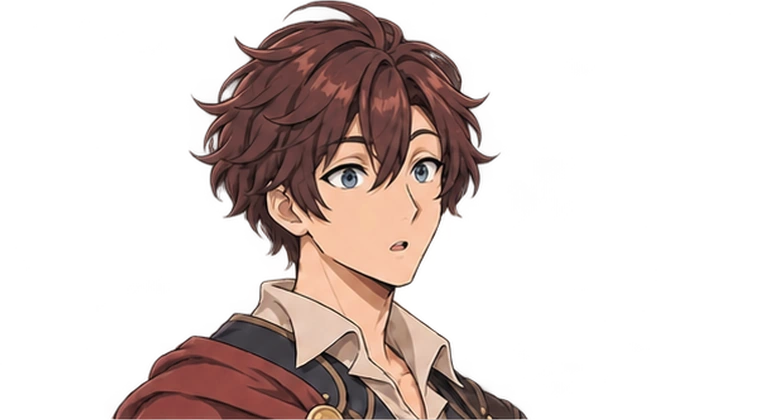
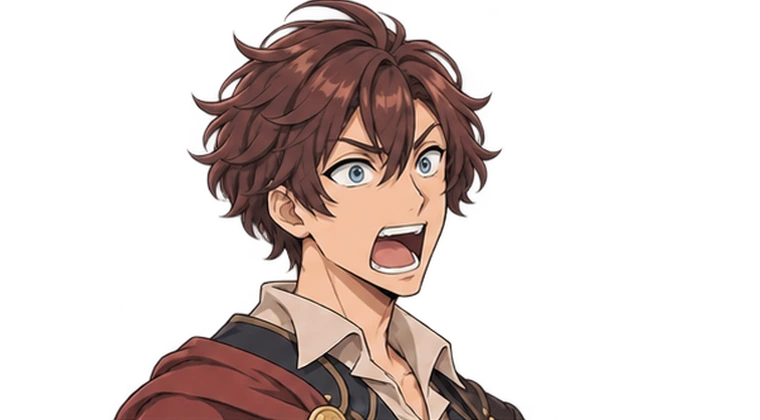
Give each character distinct facial acting and contextual reactions

Changed region(s): [[0.1211, 0.0, 0.6961, 1.0], [0.3632, 0.2476, 0.3934, 0.2786]]

diff --git a/tomori/game.js b/tomori/game.js
@@ -23,9 +23,9 @@ const assetList=['forest','yard','shop','tavern',...D.IDS.flatMap(id=>[id+'-norm
 async function load(firstLine){
 const firstExpression=firstLine?TomoriPortraits.expressionAt(firstLine,prefs.speed==='instant'||prefs.reduced?Infinity:0):null;
 if(hydrated){if(firstLine)await portraitView.preload(firstLine.who,firstExpression);return;}
-const names=[...assetList],meta=firstLine?TomoriExpressions[firstLine.who]:null;
-if(meta?.variants.includes(firstExpression))names.push('expressions/'+firstLine.who+'-mask','expressions/'+firstLine.who+'-'+firstExpression);
-$('loading').hidden=false;let n=0;await Promise.all(names.map(name=>new Promise(resolve=>{const im=new Image();im.onload=im.onerror=()=>{$('load-progress').value=++n/names.length;resolve();};im.src='assets/'+name+'.webp';})));hydrated=true;$('loading').hidden=true;}
+const sources=assetList.map(name=>'assets/'+name+'.webp'),meta=firstLine?TomoriExpressions[firstLine.who]:null;
+if(meta?.variants.includes(firstExpression))sources.push('assets/expressions/'+firstLine.who+'-mask.webp',portraitView.texture(firstLine.who,firstExpression));
+$('loading').hidden=false;let n=0;await Promise.all(sources.map(src=>new Promise(resolve=>{const im=new Image();im.onload=im.onerror=()=>{$('load-progress').value=++n/sources.length;resolve();};im.src=src;})));hydrated=true;$('loading').hidden=true;}
 async function begin(fresh=false){if(busy)return;busy=true;closeAll();const nextState=fresh?C.fresh():C.validate(saved)||C.fresh(),cursor=nextState.story;await load(cursor?D.STORIES[cursor.id]?.[cursor.index]:null);generation++;state=nextState;active=null;target=null;dying.clear();busy=false;save();render();if(!fresh&&recovered){toast('ひとつ前の記録から旅を再開しました。');recovered=false;}queueFlow();}
 function render(){if(!state)return;const view=state.view==='camp'?'hub':state.view;show(view);if(view==='hub')renderHub();if(view==='story')renderStory();if(view==='battle')renderBattle();if(view==='result')renderResult();if(view==='ending')renderEnding();}
 function renderHub(){background(state.next===1?'shop':state.next===2?'forest':'yard');$('gold').textContent=state.gold;$('ore').textContent=state.ore;const node=D.NODES[state.completed?5:state.next]||D.NODES[5];$('quest-label').textContent=state.completed?'聖剣を取り戻した · 第一章クリア':'買い戻しの進行 · '+state.next+' / 5';$('quest-title').textContent=state.completed?'ゴーレムの試運転':node.name;$('quest-description').textContent=state.completed?'ヒューゴの機械で腕試し。別の編成や装備の手入れも試せます。':node.description;$('depart').innerHTML=(state.completed?'ゴーレムと腕試し':node.type==='event'?'買い戻しの準備をする':'次の道へ進む')+' <span>→</span>';
@@ -87,7 +87,7 @@ function openRoute(){$('route-list').innerHTML=D.NODES.slice(1).map(n=>{const do
 const storyNames=D.STORY_TITLES;
 function journalIndex(){$('journal-list').innerHTML='<p class="fine">買い戻しの準備：'+(state.route==='help'?'薬草弁当 / 全員の最大HP+6':state.route==='trace'?'整備図を購入 / ゴーレムの盾−1':'まだ、これから')+'</p>'+state.seen.map(id=>`<button class="journal-button" data-read="${id}">${storyNames[id]}</button>`).join('')+(!state.seen.length?'<p class="fine">読み終えた会話が、ここに残ります。</p>':'');$('journal-list').querySelectorAll('[data-read]').forEach(b=>b.onclick=()=>{$('journal-list').innerHTML='<button class="journal-button" id="journal-back">← 会話の一覧へ</button><button class="primary wide" id="replay-story">会話画面で見返す</button>'+D.STORIES[b.dataset.read].map(l=>`<div class="journal-story"><strong>${(D.HEROES[l.who]||D.NPCS[l.who]).name}</strong><p>${esc(l.text)}</p></div>`).join('');$('journal-back').onclick=journalIndex;$('replay-story').onclick=()=>startReplay(b.dataset.read);$('journal-dialog').scrollTop=0;});}
 function battleMenu(history=false){const b=state?.battle;if(!b)return;$('battle-heading').textContent=history?'戦闘の記録':'戦いの手引き';$('battle-dialog-body').innerHTML=(history?b.log:[...b.enemies.filter(e=>e.hp>0).map(e=>D.MONSTERS[e.kind].name+'：盾'+e.shield+' / '+enemyIntent(e)),b.nodeId===5?'ゴーレムは荷を固定し直します。崩した隙に大技をまとめよう。':'敵を崩すと、その敵の次の行動を中断できます。']).map(l=>`<p class="battle-record">${esc(l)}</p>`).join('');open('battle-dialog');}
-$('new-game').onclick=()=>saved?open('confirm-new'):begin(true);$('confirm-start').onclick=()=>begin(true);$('continue').onclick=()=>begin(false);$('title-guide').onclick=()=>open('guide-dialog');$('title-settings').onclick=()=>open('settings-dialog');$('hub-settings').onclick=()=>open('settings-dialog');$('settings-title').onclick=()=>{save();showTitle();};$('depart').onclick=()=>depart(state.completed?5:state.next);$('rest').onclick=()=>{const r=C.rest(state);if(r.ok){save();renderHub();toast(r.message);}};$('route').onclick=openRoute;$('party-open').onclick=openParty;$('party-confirm').onclick=()=>{const r=C.formation(state,draft);if(r.ok){save();close('party-dialog');renderHub();toast('この3人で、旅に出よう。');}};$('gear-open').onclick=openGear;$('bag-open').onclick=()=>{renderBag();open('bag-dialog');};$('buy').onclick=()=>{if(C.buy(state).ok){save();renderBag();renderHub();toast('回復薬を道具袋に入れた。');}};$('journal-open').onclick=()=>{journalIndex();open('journal-dialog');};$('story-next').onclick=()=>nextStory();$('story-line').onclick=()=>{if(typing){clearInterval(typing);typing=null;$('story-line').textContent=fullLine;applyStoryExpression(Infinity);}};$('story-skip').onclick=()=>nextStory(true);$('battle-potion').onclick=()=>action('potion');$('battle-menu').onclick=()=>battleMenu();$('battle-history').onclick=()=>battleMenu(true);$('battle-guide').onclick=()=>{close('battle-dialog');open('guide-dialog');};$('retreat').onclick=()=>{generation++;busy=false;dying.clear();closeAll();if(!state.battle)return;state.battle.phase='loss';C.complete(state);save();render();};$('result-next').onclick=()=>{C.afterResult(state);save();render();};$('result-retry').onclick=()=>{const id=state.lastBattle.nodeId;state.view='camp';depart(id);};$('ending-camp').onclick=()=>{state.view='camp';save();render();};$('ending-title').onclick=()=>{save();showTitle();};$('share').onclick=async()=>{const text='昨日300Gで売った剣が、今日1億Gになっていた。\n「勇者の剣、売りました。」第1章クリア。\nhttps://sakamoto241.github.io/game/tomori/?v=4';try{if(navigator.share)await navigator.share({title:D.TITLE,text});else{await navigator.clipboard.writeText(text);toast('買い戻しの記録とURLをコピーしました。');}}catch(e){if(e.name!=='AbortError'){toast('共有するURL：https://sakamoto241.github.io/game/tomori/?v=4');}}};$('reduced').onchange=e=>{prefs.reduced=e.target.checked;savePrefs();};$('text-speed').onchange=e=>{prefs.speed=e.target.value;savePrefs();};document.querySelectorAll('[data-close]').forEach(b=>b.onclick=()=>close(b.dataset.close));document.querySelectorAll('dialog').forEach(d=>{d.addEventListener('close',queueFlow);d.addEventListener('click',e=>{if(e.target===d){const r=d.getBoundingClientRect();if(e.clientX<r.left||e.clientX>r.right||e.clientY<r.top||e.clientY>r.bottom)d.close();}});});
+$('new-game').onclick=()=>saved?open('confirm-new'):begin(true);$('confirm-start').onclick=()=>begin(true);$('continue').onclick=()=>begin(false);$('title-guide').onclick=()=>open('guide-dialog');$('title-settings').onclick=()=>open('settings-dialog');$('hub-settings').onclick=()=>open('settings-dialog');$('settings-title').onclick=()=>{save();showTitle();};$('depart').onclick=()=>depart(state.completed?5:state.next);$('rest').onclick=()=>{const r=C.rest(state);if(r.ok){save();renderHub();toast(r.message);}};$('route').onclick=openRoute;$('party-open').onclick=openParty;$('party-confirm').onclick=()=>{const r=C.formation(state,draft);if(r.ok){save();close('party-dialog');renderHub();toast('この3人で、旅に出よう。');}};$('gear-open').onclick=openGear;$('bag-open').onclick=()=>{renderBag();open('bag-dialog');};$('buy').onclick=()=>{if(C.buy(state).ok){save();renderBag();renderHub();toast('回復薬を道具袋に入れた。');}};$('journal-open').onclick=()=>{journalIndex();open('journal-dialog');};$('story-next').onclick=()=>nextStory();$('story-line').onclick=()=>{if(typing){clearInterval(typing);typing=null;$('story-line').textContent=fullLine;applyStoryExpression(Infinity);}};$('story-skip').onclick=()=>nextStory(true);$('battle-potion').onclick=()=>action('potion');$('battle-menu').onclick=()=>battleMenu();$('battle-history').onclick=()=>battleMenu(true);$('battle-guide').onclick=()=>{close('battle-dialog');open('guide-dialog');};$('retreat').onclick=()=>{generation++;busy=false;dying.clear();closeAll();if(!state.battle)return;state.battle.phase='loss';C.complete(state);save();render();};$('result-next').onclick=()=>{C.afterResult(state);save();render();};$('result-retry').onclick=()=>{const id=state.lastBattle.nodeId;state.view='camp';depart(id);};$('ending-camp').onclick=()=>{state.view='camp';save();render();};$('ending-title').onclick=()=>{save();showTitle();};$('share').onclick=async()=>{const text='昨日300Gで売った剣が、今日1億Gになっていた。\n「勇者の剣、売りました。」第1章クリア。\nhttps://sakamoto241.github.io/game/tomori/?v=5';try{if(navigator.share)await navigator.share({title:D.TITLE,text});else{await navigator.clipboard.writeText(text);toast('買い戻しの記録とURLをコピーしました。');}}catch(e){if(e.name!=='AbortError'){toast('共有するURL：https://sakamoto241.github.io/game/tomori/?v=5');}}};$('reduced').onchange=e=>{prefs.reduced=e.target.checked;savePrefs();};$('text-speed').onchange=e=>{prefs.speed=e.target.value;savePrefs();};document.querySelectorAll('[data-close]').forEach(b=>b.onclick=()=>close(b.dataset.close));document.querySelectorAll('dialog').forEach(d=>{d.addEventListener('close',queueFlow);d.addEventListener('click',e=>{if(e.target===d){const r=d.getBoundingClientRect();if(e.clientX<r.left||e.clientX>r.right||e.clientY<r.top||e.clientY>r.bottom)d.close();}});});
 document.addEventListener('visibilitychange',()=>{if(document.hidden)save();else queueFlow();});window.addEventListener('pagehide',save);window.addEventListener('resize',resizeCanvas);document.addEventListener('contextmenu',e=>{if(e.target.closest('#app'))e.preventDefault();});document.addEventListener('error',e=>{if(e.target instanceof HTMLImageElement&&!e.target.dataset.failed){e.target.dataset.failed='1';e.target.src='assets/fallback.svg';}},true);
 applyPrefs();showTitle();
 })();

diff --git a/tomori/index.html b/tomori/index.html
@@ -1,4 +1,4 @@
-<!doctype html><html lang="ja"><head><meta charset="utf-8"><meta name="viewport" content="width=device-width,initial-scale=1,viewport-fit=cover"><meta name="theme-color" content="#223b34"><title>勇者の剣、売りました。</title><meta name="description" content="昨日300Gで売った剣が、今日1億Gになっていた。四人で夕食に使った代金を取り返す、買い戻し冒険RPG。"><meta property="og:title" content="勇者の剣、売りました。"><meta property="og:description" content="聖剣を売ったお金は、四人の胃袋へ。買い手を追いかけるドタバタRPG。通常は等身の高い立ち絵、戦闘はSDキャラ。"><meta property="og:image" content="https://sakamoto241.github.io/game/tomori/og.jpg?v=4"><meta property="og:url" content="https://sakamoto241.github.io/game/tomori/"><meta property="og:locale" content="ja_JP"><meta name="twitter:image" content="https://sakamoto241.github.io/game/tomori/og.jpg?v=4"><meta name="twitter:card" content="summary_large_image"><link rel="stylesheet" href="styles.css?v=4"><link rel="preload" as="image" href="assets/shop.webp"></head><body>
+<!doctype html><html lang="ja"><head><meta charset="utf-8"><meta name="viewport" content="width=device-width,initial-scale=1,viewport-fit=cover"><meta name="theme-color" content="#223b34"><title>勇者の剣、売りました。</title><meta name="description" content="昨日300Gで売った剣が、今日1億Gになっていた。四人で夕食に使った代金を取り返す、買い戻し冒険RPG。"><meta property="og:title" content="勇者の剣、売りました。"><meta property="og:description" content="聖剣を売ったお金は、四人の胃袋へ。買い手を追いかけるドタバタRPG。通常は等身の高い立ち絵、戦闘はSDキャラ。"><meta property="og:image" content="https://sakamoto241.github.io/game/tomori/og.jpg?v=5"><meta property="og:url" content="https://sakamoto241.github.io/game/tomori/"><meta property="og:locale" content="ja_JP"><meta name="twitter:image" content="https://sakamoto241.github.io/game/tomori/og.jpg?v=5"><meta name="twitter:card" content="summary_large_image"><link rel="stylesheet" href="styles.css?v=5"><link rel="preload" as="image" href="assets/shop.webp"></head><body>
 <svg class="defs" aria-hidden="true"><defs><symbol id="coin-i" viewBox="0 0 24 24"><circle cx="12" cy="12" r="9"/><path d="m12 5 4 7-4 7-4-7z"/></symbol><symbol id="ore-i" viewBox="0 0 24 24"><path d="m6 3 12 0 5 9-5 9H6l-5-9z"/><circle cx="12" cy="12" r="4"/></symbol><symbol id="party-i" viewBox="0 0 24 24"><circle cx="12" cy="7" r="4"/><path d="M4 22v-4c0-8 16-8 16 0v4M3 4a3 3 0 0 0 0 6m18-6a3 3 0 0 1 0 6"/></symbol><symbol id="sword-i" viewBox="0 0 24 24"><path d="m5 20 7-8M9 8l7 7m-6-6 9-7 3 3-8 9M2 18l4 4"/></symbol><symbol id="bag-i" viewBox="0 0 24 24"><path d="M5 8h14l2 13H3zM8 8V5a4 4 0 0 1 8 0v3M9 12h6"/></symbol><symbol id="book-i" viewBox="0 0 24 24"><path d="M12 5S6 2 2 5v15c5-3 10 1 10 1s5-4 10-1V5c-5-3-10 0-10 0zM12 5v16"/></symbol><symbol id="shield-i" viewBox="0 0 24 24"><path d="m12 2 9 4v7c0 6-9 9-9 9S3 19 3 13V6zM12 5v14"/></symbol><symbol id="rest-i" viewBox="0 0 24 24"><path d="M4 8h12v6c0 7-12 7-12 0zM16 9h2a3 3 0 0 1 0 6h-2M3 22h15M8 2v3m5-3v3"/></symbol></defs></svg>
 <main id="app"><div id="scenery"></div><div class="scene-wash"></div><section id="title"><div class="title-copy"><p class="eyebrow">昨日300G、今日1億G。</p><h1>勇者の剣、<br><span>売りました。</span></h1><p class="tagline">その代金は、<br>四人の夕食になりました。</p></div><img class="title-character" src="assets/rine-normal-body.webp" alt="古道具屋の鑑定士リネ" draggable="false"><div class="title-menu"><button id="new-game" class="primary">はじめる <span>→</span></button><button id="continue" class="secondary" hidden>つづきから <span>→</span></button><div class="title-links"><button id="title-guide">遊び方</button><button id="title-settings">設定</button></div><p class="fine">第一章「食べた300G」 / 3人編成のコマンドRPG</p><p id="save-note" hidden></p></div></section>
 <section id="hub" hidden><header class="hub-header"><div><p class="eyebrow">第一章 · 食べた300G</p><h1>買い戻し作戦</h1></div><div class="resources"><span><svg><use href="#coin-i"/></svg><b id="gold">40</b></span><span><svg><use href="#ore-i"/></svg><b id="ore">1</b></span><button id="hub-settings" class="icon" aria-label="設定">≡</button></div></header><img id="hub-character" src="assets/rine-normal-portrait.webp" alt="リネ" draggable="false"><div class="hub-speech"><span>リネ</span><p id="hub-line"></p></div><div class="hub-bottom"><div class="current-quest"><p class="eyebrow" id="quest-label">次の行き先</p><h2 id="quest-title"></h2><p id="quest-description"></p></div><div id="hub-party" class="hub-party"></div><button id="depart" class="primary wide"></button><div class="hub-options"><button id="rest"><svg><use href="#rest-i"/></svg>ひと息つく</button><button id="route"><svg><use href="#book-i"/></svg>行き先を見る</button></div><nav class="bottom-nav"><button id="party-open"><svg><use href="#party-i"/></svg><span>仲間</span></button><button id="gear-open"><svg><use href="#sword-i"/></svg><span>装備</span></button><button id="bag-open"><svg><use href="#bag-i"/></svg><span>道具</span></button><button id="journal-open"><svg><use href="#book-i"/></svg><span>手帳</span></button></nav></div></section>
@@ -17,4 +17,4 @@
 <dialog id="battle-dialog" aria-labelledby="battle-heading"><div class="dialog-head"><h2 id="battle-heading">戦いの手引き</h2><button class="close" data-close="battle-dialog" aria-label="戻る">×</button></div><div id="battle-dialog-body"></div><button id="battle-history" class="secondary wide">戦闘ログを見る</button><button id="battle-guide" class="primary wide">連携の基本を見る</button><button class="secondary wide" data-close="battle-dialog">戦闘にもどる</button><button id="retreat" class="text-button">撤退して拠点へ戻る</button></dialog>
 <dialog id="settings-dialog" aria-labelledby="settings-heading"><div class="dialog-head"><h2 id="settings-heading">設定</h2><button class="close" data-close="settings-dialog" aria-label="閉じる">×</button></div><label class="setting"><span>演出をひかえめに</span><input id="reduced" type="checkbox"></label><label class="setting"><span>会話の速さ</span><select id="text-speed"><option value="normal">ふつう</option><option value="instant">すぐ表示</option></select></label><button id="settings-title" class="secondary wide">保存してタイトルへ</button><p class="fine">戦闘途中も、行動ごとに自動で保存します。<br>このゲームは音声なしで遊べます。</p><a href="credits.html" target="_blank" rel="noopener" class="credits-link">絵とゲームについて</a></dialog>
 <dialog id="confirm-new" aria-labelledby="new-heading"><h2 id="new-heading">新しいはじめる？</h2><p>この旅の記録を、はじめからにします。</p><button id="confirm-start" class="primary wide">はじめから旅立つ</button><button class="secondary wide" data-close="confirm-new">今の旅を残す</button></dialog>
-<p id="toast" role="status" aria-live="polite"></p><script src="data.js?v=4"></script><script src="core.js?v=4"></script><script src="expressions.js?v=4"></script><script src="portraits.js?v=4"></script><script src="game.js?v=4"></script></body></html>
+<p id="toast" role="status" aria-live="polite"></p><script src="data.js?v=5"></script><script src="core.js?v=5"></script><script src="expressions.js?v=5"></script><script src="portraits.js?v=5"></script><script src="game.js?v=5"></script></body></html>

diff --git a/tomori/data.js b/tomori/data.js
@@ -16,15 +16,15 @@ const NODES=[{id:0,name:'リネの古道具屋',type:'camp',scene:'shop'},
 {id:5,name:'暴走！荷役ゴーレム',type:'battle',scene:'yard',enemies:['golem'],gold:120,ore:5,xp:65,description:'荷を盾にして、留め具を何度も締め直す。崩しと大技で制御石を止めよう。'}];
 const STORIES={
 intro:[
- {who:'rine',expression:'serious',scene:'shop',place:'リネの古道具屋 · 昨日の夕方',prop:'sword',text:'錆びた剣一本、300G。刃こぼれ込みで、この値段よ。'},
+ {who:'rine',expression:'smile',scene:'shop',place:'リネの古道具屋 · 昨日の夕方',prop:'sword',text:'錆びた剣一本、300G。刃こぼれ込みで、この値段よ。'},
  {who:'hugo',expression:'smile',scene:'shop',place:'リネの古道具屋 · 売買成立',prop:'sold',text:'薪が割れりゃ十分だ。東の材木市へ行くついでに、いい買い物ができた。'},
  {who:'ash',expression:'smile',scene:'tavern',place:'その夜 · 四人の夕食',prop:'dinner',text:'売れた記念に肉だ！ 四人分、260G！ 剣は俺が荷台まで運んだから、遠慮なく食うぞ。'},
  {who:'noa',expression:'smile',scene:'tavern',place:'食堂 · お会計',prop:'dinner',text:'残り40Gね。私の情報料にも足りないけど……ごちそうさま。'},
  {who:'finn',expression:'serious',scene:'tavern',place:'食堂 · 話の途中',text:'ところで、あの剣の柄にあった王家の紋章について、少し説明を——'},
- {who:'rine',expression:'smile',scene:'tavern',place:'食堂 · 食事優先',text:'鑑定の話は明日。今は食べる。冷めちゃうでしょ。'},
- {who:'finn',expression:'serious',scene:'shop',place:'翌朝 · 届いた新聞',prop:'news',text:'おはよう。昨日の話の続きを、新聞の見出しが代わりに説明してくれたよ。'},
+ {who:'rine',expression:'neutral',scene:'tavern',place:'食堂 · 食事優先',text:'鑑定の話は明日。今は食べる。冷めちゃうでしょ。'},
+ {who:'finn',expression:'troubled',scene:'shop',place:'翌朝 · 届いた新聞',prop:'news',text:'おはよう。昨日の話の続きを、新聞の見出しが代わりに説明してくれたよ。'},
  {who:'rine',expression:'serious',reaction:{at:'1億G',expression:'surprised'},scene:'shop',place:'新聞の一面',prop:'news',text:'《王家の聖剣を探しています。発見者に1億G》……この剣、見覚えがありすぎる。'},
- {who:'ash',expression:'surprised',scene:'shop',place:'昨日の記憶',text:'……俺が荷台に積んだやつだ。昨日の夕飯、全部あれの代金だ。'},
+ {who:'ash',expression:'troubled',scene:'shop',place:'昨日の記憶',text:'……俺が荷台に積んだやつだ。昨日の夕飯、全部あれの代金だ。'},
  {who:'finn',expression:'troubled',scene:'shop',place:'最後まで聞いてほしかった',text:'聖剣だ、と最後まで言いたかったんだけど。'},
  {who:'noa',expression:'serious',scene:'shop',place:'買い手の行き先',text:'買ったおじさんは東の材木市へ。三日後の競売に間に合わせるって。出品される前に追いつこう。'},
  {who:'rine',expression:'serious',scene:'shop',place:'第一章 · 食べた300G',text:'買い戻す。昨日の300Gは、四人で食べたんだからね。全員、支度して。'}],
@@ -41,7 +41,7 @@ fork:[
  {who:'finn',expression:'serious',scene:'yard',place:'二つの作戦',text:'弁当は体力づくりに。整備図は、ヒューゴさんが使うゴーレムの留め具を調べるのに役立つね。'},
  {who:'rine',expression:'serious',scene:'yard',place:'使い道を決めよう',text:'お金の使い道、今度こそ考えて決めましょう。'}],
 help:[
- {who:'noa',expression:'smile',scene:'yard',place:'薬草弁当で作戦会議',text:'昨日の残り物を、四人分包んでおいた。薬草も入れたから、この先は少し無理がきくよ。'},
+ {who:'noa',expression:'neutral',scene:'yard',place:'薬草弁当で作戦会議',text:'昨日の残り物を、四人分包んでおいた。薬草も入れたから、この先は少し無理がきくよ。'},
  {who:'ash',expression:'smile',scene:'yard',place:'全員の最大HP +6',text:'助かる！ 明日の俺も頼む！'},
  {who:'noa',expression:'smile',scene:'yard',place:'仲間割引は本日限り',text:'明日は有料。昨日みたいな夕飯を食べたいなら、先に剣を取り戻してね。'}],
 trace:[
@@ -75,14 +75,14 @@ honest:[
  {who:'hugo',expression:'smile',scene:'yard',place:'紹介状を受け取った',text:'王都の鑑定所への紹介状も書こう。あっちに知り合いがいる。土産話は、あとで聞かせてくれ。'},
  {who:'noa',expression:'serious',scene:'yard',place:'取り分の相談はまだ早い',text:'まずは本物か、ちゃんと鑑定してもらおう。情報料の計算は、そのあと。'},
  {who:'finn',expression:'troubled',scene:'yard',place:'今度こそ、最後まで',text:'そうだね。僕の鑑定の説明も、今度こそ最後まで聞いてもらえるかな。'},
- {who:'rine',expression:'smile',scene:'yard',place:'第一章 · 聖剣を取り戻した',prop:'recovered',text:'最初から聞くわ。……今日の夕飯は、おにぎり。四人でね。'}],
+ {who:'rine',expression:'neutral',scene:'yard',place:'第一章 · 聖剣を取り戻した',prop:'recovered',text:'最初から聞くわ。……今日の夕飯は、おにぎり。四人でね。'}],
 barter:[
  {who:'rine',expression:'serious',scene:'yard',place:'修理代で買い戻す',text:'制御石の調整、留め具の交換、危険手当。追加の修理代300Gと、買い戻し代300Gで相殺を提案するわ。'},
  {who:'hugo',expression:'laugh',scene:'yard',place:'商談成立',text:'ははっ、昨日より商売上手だな！ いいぜ。受け取りの領収書だけ、ここに書いてくれ。'},
- {who:'ash',expression:'smile',scene:'yard',place:'秘密にできない剣士',text:'よし！ これで聖剣の発見報酬、一億Gに——あ。'},
+ {who:'ash',expression:'smile',reaction:{at:'——あ',expression:'troubled'},scene:'yard',place:'秘密にできない剣士',text:'よし！ これで聖剣の発見報酬、一億Gに——あ。'},
  {who:'hugo',expression:'surprised',scene:'yard',place:'言うのが遅い',text:'……一億？ それは先に言え！ ま、約束は約束だ。今度はその剣で薪を割るなよ。'},
  {who:'noa',expression:'smile',scene:'yard',place:'お土産も経費',text:'王都のお土産、ちゃんと持って戻ろうね。領収書も忘れずに。'},
- {who:'rine',expression:'smile',scene:'yard',place:'第一章 · 聖剣を取り戻した',prop:'recovered',text:'もちろん。……今日の夕飯は、おにぎり。四人でね。'}]
+ {who:'rine',expression:'neutral',scene:'yard',place:'第一章 · 聖剣を取り戻した',prop:'recovered',text:'もちろん。……今日の夕飯は、おにぎり。四人でね。'}]
 };
 const STORY_TITLES={intro:'300Gの剣と260Gの夕食',trail:'荷車のわだち',receipt:'伝票の住所',fork:'買い戻しの準備',help:'四人分のお弁当',trace:'30Gの整備図',market:'薪小屋への道',buyer:'聖剣で薪割り',deal:'交渉の前の仕事',yard:'動き出す木箱',beforeBoss:'荷役ゴーレムを止めろ',ending:'買い戻しの商談',honest:'正直に話した商談',barter:'修理代との相殺'};
 const BEFORE_NODE={1:'trail',3:'market',4:'deal',5:'beforeBoss'};

diff --git a/tomori/portraits.js b/tomori/portraits.js
@@ -6,10 +6,11 @@ function expressionAt(line,visible=Infinity){const fallback=Object.hasOwn(LABELS
 class View{
  constructor(base,layer,stage,registry){this.base=base;this.layer=layer;this.face=layer.querySelector('img');this.stage=stage;this.registry=registry;this.sequence=0;this.cache=new Map();this.current=null;this.observer=new ResizeObserver(()=>this.sync());this.observer.observe(base);this.observer.observe(stage);base.addEventListener('load',()=>this.sync());window.addEventListener('resize',()=>this.sync());}
  load(src){if(!this.cache.has(src))this.cache.set(src,new Promise(resolve=>{const im=new Image();im.onload=()=>resolve(im);im.onerror=()=>resolve(null);im.src=src;}));return this.cache.get(src);}
- preload(character,expression){const meta=this.registry[character],pose=character==='hugo'&&expression==='laugh'?'laugh':'normal';const files=[`assets/${character}-${pose}-portrait.webp`];if(meta?.variants.includes(expression))files.push(`assets/expressions/${character}-${expression}.webp`,`assets/expressions/${character}-mask.webp`);return Promise.all(files.map(src=>this.load(src)));}
- show(character,expression,name){expression=Object.hasOwn(LABELS,expression)?expression:'neutral';const registration=this.registry[character];const fullPose=character==='hugo'&&expression==='laugh';const baseSrc=`assets/${character}-${fullPose?'laugh':'normal'}-portrait.webp`;const patch=registration?.variants.includes(expression)?`assets/expressions/${character}-${expression}.webp`:null;const key=character+':'+expression;
+ texture(character,expression){const revision=this.registry[character]?.revision;return `assets/expressions/${character}-${expression}.webp`+(revision?'?v='+encodeURIComponent(revision):'');}
+ preload(character,expression){const meta=this.registry[character],pose=character==='hugo'&&expression==='laugh'?'laugh':'normal';const files=[`assets/${character}-${pose}-portrait.webp`];if(meta?.variants.includes(expression))files.push(this.texture(character,expression),`assets/expressions/${character}-mask.webp`);return Promise.all(files.map(src=>this.load(src)));}
+ show(character,expression,name){expression=Object.hasOwn(LABELS,expression)?expression:'neutral';const registration=this.registry[character];const fullPose=character==='hugo'&&expression==='laugh';const baseSrc=`assets/${character}-${fullPose?'laugh':'normal'}-portrait.webp`;const patch=registration?.variants.includes(expression)?this.texture(character,expression):null;const key=character+':'+expression;
  if(this.current?.key===key){this.sync();return;}const sequence=++this.sequence;this.current={key,character,expression,registration,patch};if(this.base.dataset.character!==character||fullPose)this.layer.hidden=true;
- Promise.all([this.load(baseSrc),patch?this.load(patch):null,patch?this.load(`assets/expressions/${character}-mask.webp`):null]).then(([body,head,mask])=>{if(sequence!==this.sequence)return;if(!body){this.layer.hidden=true;return;}if(!this.base.getAttribute('src')?.endsWith(baseSrc))this.base.src=baseSrc;this.base.alt=`${name}（${LABELS[expression]}）`;this.base.dataset.character=character;this.base.dataset.expression=expression;
+ Promise.all([this.load(baseSrc),patch?this.load(patch):null,patch?this.load(`assets/expressions/${character}-mask.webp`):null]).then(([body,head,mask])=>{if(sequence!==this.sequence)return;if(!body){this.layer.hidden=true;return;}if(!this.base.getAttribute('src')?.endsWith(baseSrc))this.base.src=baseSrc;this.base.alt=`${name}（${registration?.labels?.[expression]||LABELS[expression]}）`;this.base.dataset.character=character;this.base.dataset.expression=expression;
   if(head&&mask){this.face.src=patch;const image=`url("assets/expressions/${character}-mask.webp")`;this.face.style.maskImage=image;this.face.style.webkitMaskImage=image;this.layer.dataset.expression=expression;this.layer.hidden=false;}else this.layer.hidden=true;
   requestAnimationFrame(()=>{if(sequence===this.sequence)this.sync();});
  });}

diff --git a/tomori/credits.html b/tomori/credits.html
@@ -1,1 +1,1 @@
-<!doctype html><html lang="ja"><meta charset="utf-8"><meta name="viewport" content="width=device-width,initial-scale=1,viewport-fit=cover"><title>絵とゲームについて — 勇者の剣、売りました。</title><style>body{max-width:620px;margin:35px auto;padding:20px;background:#f4f0df;color:#273a35;font:15px/2 -apple-system,sans-serif}h1{font-size:27px}h2{font-size:19px;margin-top:30px}a{color:#294c41}p{margin:18px 0}</style><h1>勇者の剣、売りました。</h1><p>300Gで売った聖剣の代金は、四人の夕食へ。翌朝、発見報酬が1億Gだと知った古道具屋リネたちが、買い手を追いかけます。</p><h2>絵について</h2><p>通常は等身の高いアニメ調の立ち絵、戦闘は小さなSDキャラを使い分けています。キャラクター・敵・背景・小道具には制作時に生成した画像を使用し、ゲーム用に切り出し・縮小しています。</p><p>会話では同じ立ち絵に表情の差分を重ね、セリフに合わせて切り替えます。手帳から、表情つきの会話を見返せます。</p><h2>収録範囲</h2><p>第一章「食べた300G」。道中三戦、荷役ゴーレム戦、買い戻しの商談と二種類の結末を収録しています。王都での鑑定と1億Gの受け取りは、この章の後の出来事です。</p><h2>音声・保存</h2><p>音声は使用していません。プレイ中に画像生成APIへの通信はありません。進行はこのブラウザ内に自動保存します。新しい物語の記録は旧作の保存データと分けてあり、旧作の記録を削除しません。端末間の共有には対応していません。</p><p><a href="./?v=4">ゲームへ戻る</a></p></html>
+<!doctype html><html lang="ja"><meta charset="utf-8"><meta name="viewport" content="width=device-width,initial-scale=1,viewport-fit=cover"><title>絵とゲームについて — 勇者の剣、売りました。</title><style>body{max-width:620px;margin:35px auto;padding:20px;background:#f4f0df;color:#273a35;font:15px/2 -apple-system,sans-serif}h1{font-size:27px}h2{font-size:19px;margin-top:30px}a{color:#294c41}p{margin:18px 0}</style><h1>勇者の剣、売りました。</h1><p>300Gで売った聖剣の代金は、四人の夕食へ。翌朝、発見報酬が1億Gだと知った古道具屋リネたちが、買い手を追いかけます。</p><h2>絵について</h2><p>通常は等身の高いアニメ調の立ち絵、戦闘は小さなSDキャラを使い分けています。キャラクター・敵・背景・小道具には制作時に生成した画像を使用し、ゲーム用に切り出し・縮小しています。</p><p>会話では同じ立ち絵に表情の差分を重ね、セリフに合わせて切り替えます。手帳から、表情つきの会話を見返せます。</p><h2>収録範囲</h2><p>第一章「食べた300G」。道中三戦、荷役ゴーレム戦、買い戻しの商談と二種類の結末を収録しています。王都での鑑定と1億Gの受け取りは、この章の後の出来事です。</p><h2>音声・保存</h2><p>音声は使用していません。プレイ中に画像生成APIへの通信はありません。進行はこのブラウザ内に自動保存します。新しい物語の記録は旧作の保存データと分けてあり、旧作の記録を削除しません。端末間の共有には対応していません。</p><p><a href="./?v=5">ゲームへ戻る</a></p></html>

diff --git a/tomori/expressions.js b/tomori/expressions.js
@@ -1,2 +1,2 @@
 /* Generated asset registration; body coordinates are unchanged. */
-(function(root){const data={"rine":{"width":476,"height":956,"headHeight":430,"variants":["smile","surprised","troubled","serious"]},"ash":{"width":760,"height":936,"headHeight":420,"variants":["smile","surprised","troubled","serious"]},"noa":{"width":753,"height":995,"headHeight":465,"variants":["smile","surprised","troubled","serious"]},"finn":{"width":549,"height":999,"headHeight":450,"variants":["smile","surprised","troubled","serious"]},"hugo":{"width":678,"height":1000,"headHeight":420,"variants":["smile","surprised","troubled","serious"]}};if(typeof module==='object'&&module.exports)module.exports=data;else root.TomoriExpressions=data;})(globalThis);
+(function(root){const data={"rine":{"width":476,"height":956,"headHeight":430,"variants":["smile","surprised","troubled","serious"],"revision":"acting-v5","labels":{"neutral":"\u6c17\u3092\u7de9\u3081\u305f\u7b11\u9854","smile":"\u5546\u58f2\u7528\u306e\u611b\u60f3\u7b11\u3044","surprised":"\u9a5a\u304d\u3092\u6291\u3048\u3066\u56fa\u307e\u308b","troubled":"\u53d6\u308a\u7e55\u3046\u6c17\u307e\u305a\u3044\u7b11\u307f","serious":"\u4ea4\u6e09\u76f8\u624b\u3092\u898b\u636e\u3048\u308b"}},"ash":{"width":760,"height":936,"headHeight":420,"variants":["smile","surprised","troubled","serious"],"revision":"acting-v5","labels":{"neutral":"\u3044\u3064\u3082\u306e\u7b11\u9854","smile":"\u6b6f\u3092\u898b\u305b\u308b\u5927\u7b11\u3044","surprised":"\u58f0\u306b\u51fa\u308b\u5927\u304d\u306a\u9a5a\u304d","troubled":"\u76ee\u3092\u305d\u3089\u3057\u3066\u6c17\u307e\u305a\u304c\u308b","serious":"\u6b6f\u3092\u98df\u3044\u3057\u3070\u308b\u95d8\u5fd7"}},"noa":{"width":753,"height":995,"headHeight":465,"variants":["smile","surprised","troubled","serious"],"revision":"acting-v5","labels":{"neutral":"\u4ef2\u9593\u3078\u306e\u7d20\u76f4\u306a\u8868\u60c5","smile":"\u7247\u53e3\u89d2\u3092\u4e0a\u3052\u3066\u304b\u3089\u304b\u3046","surprised":"\u7247\u7709\u3092\u4e0a\u3052\u3066\u7591\u3046","troubled":"\u5446\u308c\u305f\u6a2a\u76ee","serious":"\u7d30\u3044\u76ee\u3067\u72b6\u6cc1\u3092\u8aad\u3080"}},"finn":{"width":549,"height":999,"headHeight":450,"variants":["smile","surprised","troubled","serious"],"revision":"acting-v5","labels":{"neutral":"\u7a4f\u3084\u304b\u306b\u8a71\u3059","smile":"\u53e3\u5143\u3060\u3051\u306e\u9759\u304b\u306a\u5fae\u7b11\u307f","surprised":"\u773c\u93e1\u8d8a\u3057\u306b\u9759\u304b\u306b\u8a1d\u3057\u3080","troubled":"\u534a\u76ee\u3067\u8a00\u8449\u3092\u306e\u307f\u8fbc\u3080","serious":"\u8003\u3048\u3092\u6574\u7406\u3059\u308b\u76ee"}},"hugo":{"width":678,"height":1000,"headHeight":420,"variants":["smile","surprised","troubled","serious"],"revision":"acting-v5","labels":{"neutral":"\u6c17\u3055\u304f\u306b\u8a71\u3059","smile":"\u982c\u3068\u76ee\u5c3b\u3067\u8c6a\u5feb\u306b\u7b11\u3046","surprised":"\u7709\u3092\u4e0a\u3052\u3066\u58f0\u3092\u8352\u3089\u3052\u308b","troubled":"\u982c\u3092\u3057\u304b\u3081\u3066\u56f0\u308a\u679c\u3066\u308b","serious":"\u7247\u76ee\u3092\u7d30\u3081\u3066\u8b66\u544a\u3059\u308b","laugh":"\u5927\u7b11\u3044"}}};if(typeof module==='object'&&module.exports)module.exports=data;else root.TomoriExpressions=data;})(globalThis);

diff --git a/tomori/tools/expression_browser_check.py b/tomori/tools/expression_browser_check.py
@@ -5,12 +5,12 @@ import argparse,json,os
 from pathlib import Path
 from PIL import Image,ImageChops
 from playwright.sync_api import sync_playwright
-ap=argparse.ArgumentParser();ap.add_argument('--url',default='http://127.0.0.1:8006/tomori/?v=4');ap.add_argument('--out',default='/tmp/tomori-expression-check');args=ap.parse_args();out=Path(args.out);out.mkdir(parents=True,exist_ok=True)
+ap=argparse.ArgumentParser();ap.add_argument('--url',default='http://127.0.0.1:8006/tomori/?v=5');ap.add_argument('--out',default='/tmp/tomori-expression-check');args=ap.parse_args();out=Path(args.out);out.mkdir(parents=True,exist_ok=True)
 KEY='sword-sale-v1'
 
 def load_story(context,id,index,speed='instant'):
  p=context.new_page();p.goto(args.url)
- p.evaluate('''({id,index,speed})=>{const s=TomoriCore.fresh();s.story={id,index};s.view='story';if(id!=='intro'){s.next=6;s.route='help';if(id==='honest')s.deal='honest'}localStorage.setItem('sword-sale-v1',JSON.stringify(s));localStorage.setItem('tomori-preferences-v1',JSON.stringify({reduced:false,speed,guideSeen:true}))}''',{'id':id,'index':index,'speed':speed})
+ p.evaluate('''({id,index,speed})=>{const s=TomoriCore.fresh();s.story={id,index};s.view='story';if(id!=='intro'){s.next=6;s.route='help';if(['honest','barter'].includes(id))s.deal=id}localStorage.setItem('sword-sale-v1',JSON.stringify(s));localStorage.setItem('tomori-preferences-v1',JSON.stringify({reduced:false,speed,guideSeen:true}))}''',{'id':id,'index':index,'speed':speed})
  p.reload();p.locator('#continue').click();return p
 
 def expect_face(p,character,expression):
@@ -32,6 +32,10 @@ with sync_playwright() as pw:
  assert p.locator('#story-character').get_attribute('src')=='assets/rine-normal-portrait.webp'
  assert p.evaluate("JSON.parse(localStorage.getItem('sword-sale-v1')).story.index")==7
  p.close()
+ # Ash's unguarded boast ends in an awkward realization, not another round surprise.
+ p=load_story(c,'barter',2,'normal');expect_face(p,'ash','smile')
+ p.locator('#story-line').click();expect_face(p,'ash','troubled')
+ p.screenshot(path=str(out/'ash-realization.png'));p.close()
  # Real body remains fixed across every expression, including resize/evidence shifts.
  p=load_story(c,'intro',7)
  expect_face(p,'rine','surprised')
@@ -41,7 +45,7 @@ with sync_playwright() as pw:
   for exp in ['smile','surprised','troubled','serious']:
    p.evaluate('''({char,exp})=>window.preview.show(char,exp,char)''',{'char':char,'exp':exp});expect_face(p,char,exp)
    assert p.locator('#story-character').get_attribute('src')==f'assets/{char}-normal-portrait.webp'
-   assert p.locator('#story-face').get_attribute('src')==f'assets/expressions/{char}-{exp}.webp'
+   assert p.locator('#story-face').get_attribute('src')==f'assets/expressions/{char}-{exp}.webp?v=acting-v5'
    screenshots.append(p.screenshot(path=str(out/f'{char}-{exp}.png')))
   # Different faces must visibly differ; pixels below the layer must stay identical.
   import io
@@ -74,7 +78,7 @@ with sync_playwright() as pw:
  for id in ['intro','intro','trail','fork','ending']:
   p.locator('#journal-open').click() if not p.locator('#journal-dialog').is_visible() else None
   p.locator(f'[data-read={id}]').click();p.locator('#replay-story').click()
-  if id=='intro':expect_face(p,'rine','serious')
+  if id=='intro':expect_face(p,'rine','smile')
   assert p.locator('#story-place').inner_text().startswith('振り返り')
   for _ in range(20):
    assert p.locator('#story-choices').is_hidden()
@@ -84,7 +88,7 @@ with sync_playwright() as pw:
   p.locator('#story-next').click();assert p.locator('#journal-dialog').is_visible()
   assert p.locator('#app').get_attribute('data-screen')=='hub'
   assert p.evaluate('(k)=>localStorage.getItem(k)',KEY)==before
- p.locator('[data-read=intro]').click();p.locator('#replay-story').click();expect_face(p,'rine','serious');p.locator('#story-skip').click();assert p.locator('#journal-dialog').is_visible()
+ p.locator('[data-read=intro]').click();p.locator('#replay-story').click();expect_face(p,'rine','smile');p.locator('#story-skip').click();assert p.locator('#journal-dialog').is_visible()
  p.locator('[data-close=journal-dialog]').click();p.reload();p.locator('#continue').click()
  assert p.locator('#app').get_attribute('data-screen')=='hub'
  assert json.loads(p.evaluate('(k)=>localStorage.getItem(k)',KEY))==json.loads(before)

diff --git a/tomori/tools/prepare_expressions.py b/tomori/tools/prepare_expressions.py
@@ -5,7 +5,45 @@ from PIL import Image
 from pathlib import Path
 import json,hashlib
 ROOT=Path('/workspace/generated_images');PROJECT=Path(__file__).resolve().parents[1];OUT=PROJECT/'assets'/'expressions'
-SOURCES={'rine':('exec-56f58db7-cbfe-47c3-9bb9-9e5c5895a89d.png',430),'ash':('exec-1ebe5fdb-90d8-4a53-93d8-fcc2205e469e.png',420),'noa':('exec-d984106e-8e6d-48e8-acba-1237f2ff0bf5.png',465),'finn':('exec-e92b051e-eb0f-4d09-9978-dec99a2ea0b8.png',450),'hugo':('exec-496320e0-91d2-4fcc-9efe-5698842fe781.png',420)}
+SOURCES={'rine':('exec-03f08913-b33b-49f4-98a6-9d1ea06dfaf6.png',430),'ash':('exec-37abf2c8-27d9-48f7-8208-f81d3bcbab14.png',420),'noa':('exec-8886f1b5-5736-4899-a17a-0ffcb0cf93fd.png',465),'finn':('exec-32e59e8b-6842-4231-ad6a-a9f98744cc8e.png',450),'hugo':('exec-44881255-f9a6-4cbf-a014-ef9069f57ef4.png',420)}
+LABELS={
+ "rine": {
+  "neutral": "気を緩めた笑顔",
+  "smile": "商売用の愛想笑い",
+  "surprised": "驚きを抑えて固まる",
+  "troubled": "取り繕う気まずい笑み",
+  "serious": "交渉相手を見据える"
+ },
+ "ash": {
+  "neutral": "いつもの笑顔",
+  "smile": "歯を見せる大笑い",
+  "surprised": "声に出る大きな驚き",
+  "troubled": "目をそらして気まずがる",
+  "serious": "歯を食いしばる闘志"
+ },
+ "noa": {
+  "neutral": "仲間への素直な表情",
+  "smile": "片口角を上げてからかう",
+  "surprised": "片眉を上げて疑う",
+  "troubled": "呆れた横目",
+  "serious": "細い目で状況を読む"
+ },
+ "finn": {
+  "neutral": "穏やかに話す",
+  "smile": "口元だけの静かな微笑み",
+  "surprised": "眼鏡越しに静かに訝しむ",
+  "troubled": "半目で言葉をのみ込む",
+  "serious": "考えを整理する目"
+ },
+ "hugo": {
+  "neutral": "気さくに話す",
+  "smile": "頬と目尻で豪快に笑う",
+  "surprised": "眉を上げて声を荒らげる",
+  "troubled": "頬をしかめて困り果てる",
+  "serious": "片目を細めて警告する",
+  "laugh": "大笑い"
+ }
+}
 OUT.mkdir(parents=True,exist_ok=True)
 names=['smile','surprised','troubled','serious'];manifest={};sources=[]
 for id,(file,hh) in SOURCES.items():
@@ -15,8 +53,8 @@ for id,(file,hh) in SOURCES.items():
  for i,name in enumerate(names):
   cell=sheet.crop((round(i%2*sw/2),round(i//2*sh/2),round((i%2+1)*sw/2),round((i//2+1)*sh/2))).resize((side,side),Image.Resampling.LANCZOS)
   registered=cell.crop((px,py,px+w,py+hh));registered.save(OUT/f'{id}-{name}.webp',quality=94,method=6)
- manifest[id]={'width':w,'height':h,'headHeight':hh,'variants':names}
+ manifest[id]={'width':w,'height':h,'headHeight':hh,'variants':names,'revision':'acting-v5','labels':LABELS[id]}
  sources.append({'character':id,'file':file,'sha256':hashlib.sha256((ROOT/file).read_bytes()).hexdigest(),'baseSha256':hashlib.sha256((PROJECT/'assets'/f'{id}-normal-portrait.webp').read_bytes()).hexdigest()})
-(OUT/'provenance.json').write_text(json.dumps({'method':'Generated edits of four identical cropped head references, technically resized/cropped to original coordinates. Browser masks retain the original silhouette and blend the lower neck onto the unchanged body.','variants':names,'sources':sources},ensure_ascii=False,indent=2)+'\n')
+(OUT/'provenance.json').write_text(json.dumps({'method':'Character-specific acting edits of original head references; each character has distinct brows, eyelids, gaze and mouth shapes. Technically resized/cropped to original coordinates. Browser masks retain the original silhouette and blend the lower neck onto the unchanged body.','variants':names,'sources':sources,'revision':'acting-v5','acting':LABELS},ensure_ascii=False,indent=2)+'\n')
 (PROJECT/'expressions.js').write_text('/* Generated asset registration; body coordinates are unchanged. */\n(function(root){const data='+json.dumps(manifest,separators=(',',':'))+';if(typeof module===\'object\'&&module.exports)module.exports=data;else root.TomoriExpressions=data;})(globalThis);\n')
 print('Prepared',len(SOURCES)*len(names),'expression layers and',len(SOURCES),'alpha masks;',sum(p.stat().st_size for p in OUT.iterdir()),'bytes')

diff --git a/tomori/README.md b/tomori/README.md
@@ -30,7 +30,9 @@
 
 リネ・アッシュ・ノア・フィン・ヒューゴに、笑顔・驚き・困り顔・真剣の20差分を収録。元の立ち絵を固定し、登録座標に頭部の差分を重ねます。衣装と体を描き直さず、元のシルエットのマスクと首元のぼかしでつなぎます。ヒューゴの笑いポーズは既存画像を使います。
 
-会話データの `expression` と、任意の `reaction: {at, expression}` で演技を指定します。新聞の「1億G」が文字送りで現れると、リネが驚く表情へ切り替わります。一括表示も対応。頭部素材は `assets/expressions/`、切り出しの記録は `provenance.json`、再生成原画の技術的な切り出しは `tools/prepare_expressions.py` です。
+同じ笑顔の形を共用せず、リネは目を開けた商売用の笑み、アッシュは歯を見せる大きな笑い、ノアは片口角と横目、フィンは視線を落とした控えめな微笑み、ヒューゴは年齢の出る頬と眉の動きで描き分けています。`expressions.js` の人物別 `labels` に演技の意味を記録します。仲間への素直な笑顔では元の立ち絵も使い、場面に合わせて演技を選びます。
+
+会話データの `expression` と、任意の `reaction: {at, expression}` で演技を指定します。新聞の「1億G」が文字送りで現れると、リネが驚く表情へ切り替わります。アッシュが報酬の額を口にしたあと「——あ」で気づく場面でも、笑顔から気まずい表情へ切り替わります。一括表示も対応。頭部の改訂にはバージョン付きURLを使い、以前の画像がキャッシュに残っていても新しい演技を読み込みます。必要な表情を数行先まで先読みし、全差分の読み込みを開始時に待ちません。頭部素材は `assets/expressions/`、切り出しの記録は `provenance.json`、再生成原画の技術的な切り出しは `tools/prepare_expressions.py` です。
 
 手帳で既読会話を選び「会話画面で見返す」を押すと、立ち絵と表情つきで再読できます。選択肢を再適用せず、報酬や戦闘、進行の記録を変えません。
 
@@ -52,7 +54,7 @@ node --test tomori/tools/core.test.cjs tomori/tools/portraits.test.cjs
 
 ゲームルール13件：連携、複数ヒット、かばう、無効操作、保存、報酬、全4編成、準備2種×商談2種の完結、無資金時の進行、商談の条件、会話参照の検証。
 
-表情判定・不正な指定の復旧・会話と素材参照の整合性は追加の3件で確認します。
+表情判定・不正な指定の復旧・会話と素材参照の整合性・アッシュの反応は追加の4件で確認します。
 
 PlaywrightのPythonパッケージとChromiumがある環境では、サーバー起動後に次を実行できます。
 
